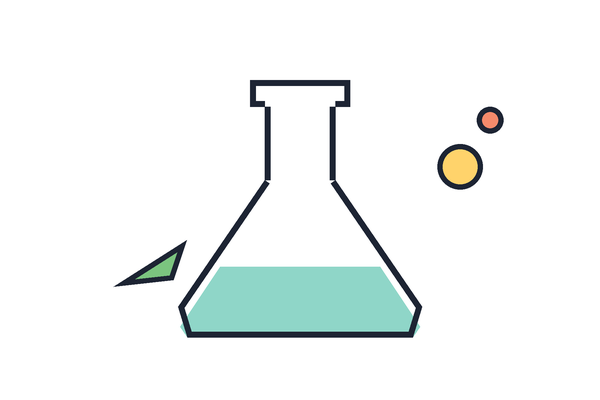
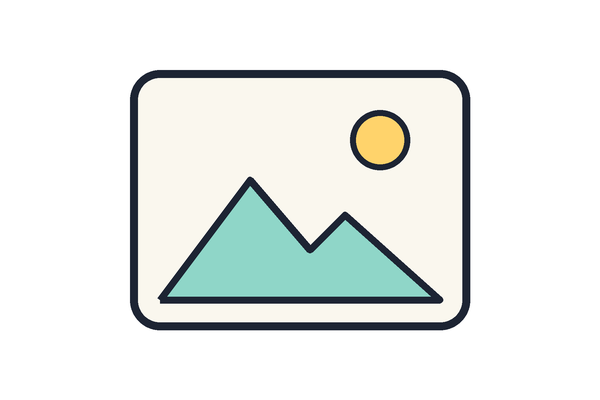
The design picker shows a post's own illustrations (by the worker's keys), not a fixed flask; a plain picture frame stands in for a slide with none
Claude-Session: https://claude.ai/code/session_01TZDmbX4uagkh5jCSUQcZv4

Changed region(s): [[0.18, 0.15, 0.84, 0.87]]

diff --git a/web/src/lib/slideArt.js b/web/src/lib/slideArt.js
@@ -1,0 +1,109 @@
+/* A post's OWN illustrations in the design picker (Wan, 23 Nov 2026: "I want illustration based on content like this, not fix conical
+   flask"). The worker draws one picture per slide from its words (backend/semasa/illustrated.py) and keeps every one on the slide job:
+   `meta.art[key] = {url, ...}`, where key = sha1("<STYLE_VERSION>|[cut|]<the slide's words>")[:16]. The picker asks for the same keys, so
+   a slide whose words are unchanged shows ITS drawing in every look: the whole drawn page for Diari, a transparent cut-out for the
+   others. A slide with no drawing yet shows a plain picture-frame stand-in, never a drawing of something it is not about. */
+
+export const STYLE_VERSION = 2;                      // illustrated.STYLE_VERSION: bump both together (web/slideArt.test.mjs reads the file)
+
+/** The words a drawing depends on, joined as illustrated.key_of joins them. */
+export const wordsOf = (s) => [s?.title, s?.lead, ...(Array.isArray(s?.points) ? s.points : []), s?.note].map((x) => String(x || "")).join("\n");
+
+/** illustrated.key_of(item, cut): the first 16 hex of sha1("2|cut|<words>"). */
+export async function artKey(slide, cut = false) {
+  const data = new TextEncoder().encode(`${STYLE_VERSION}|${cut ? "cut|" : ""}${wordsOf(slide)}`);
+  const hex = [...new Uint8Array(await globalThis.crypto.subtle.digest("SHA-1", data))].map((b) => b.toString(16).padStart(2, "0")).join("");
+  return hex.slice(0, 16);
+}
+
+/** key → address, over every slide job of the post (a later job wins). Jobs come newest first, so they are read oldest first. */
+export function artIndex(jobs) {
+  const idx = new Map();
+  for (const j of [...(jobs || [])].reverse()) {
+    const art = j?.meta?.art;
+    if (!art || typeof art !== "object") continue;
+    for (const [k, v] of Object.entries(art)) if (v && typeof v.url === "string" && v.url) idx.set(k, v.url);
+  }
+  return idx;
+}
+
+/** {cut, page} addresses for each slide ("" when the worker has not drawn that one). */
+export async function artFor(slides, jobs) {
+  const idx = artIndex(jobs);
+  if (!idx.size) return slides.map(() => ({ cut: "", page: "" }));
+  return Promise.all(slides.map(async (s) => ({ cut: idx.get(await artKey(s, true)) || "", page: idx.get(await artKey(s, false)) || "" })));
+}
+
+// ---- turning a drawing on a white page into a cut-out (the browser twin of illustrated.cutout) ----------------------------------
+
+const PAGE_WHITE = 232;                               // illustrated.CUT_WHITE: a pixel this light on every channel is page, not ink
+/** In place: the page round the drawing (white reached from the edges) becomes transparent, then a white sticker border of `r` px
+    is grown round what is left. `px` is RGBA, row by row. Returns false when no page was found (the picture fills its card). */
+export function cutPixels(px, w, h, r = Math.max(6, Math.round(w * 0.012))) {
+  const page = new Uint8Array(w * h), stack = [];
+  const white = (i) => px[i * 4] >= PAGE_WHITE && px[i * 4 + 1] >= PAGE_WHITE && px[i * 4 + 2] >= PAGE_WHITE && px[i * 4 + 3] > 0;
+  const seed = (i) => { if (!page[i] && white(i)) { page[i] = 1; stack.push(i); } };
+  for (let x = 0; x < w; x++) { seed(x); seed((h - 1) * w + x); }
+  for (let y = 0; y < h; y++) { seed(y * w); seed(y * w + w - 1); }
+  if (!stack.length) return false;
+  while (stack.length) {
+    const i = stack.pop(), x = i % w, y = (i - x) / w;
+    if (x > 0) seed(i - 1);
+    if (x < w - 1) seed(i + 1);
+    if (y > 0) seed(i - w);
+    if (y < h - 1) seed(i + w);
+  }
+  // the drawing = everything that is not page; its border = the drawing grown by r (a box, two passes)
+  const solid = new Uint8Array(w * h);
+  for (let i = 0; i < w * h; i++) solid[i] = page[i] ? 0 : 1;
+  const grow = (src, along, across, len, n) => {
+    const out = new Uint8Array(w * h);
+    for (let a = 0; a < across; a++) {
+      let count = 0;
+      const at = (t) => (along === "x" ? a * w + t : t * w + a);
+      for (let t = 0; t < Math.min(r, len); t++) count += src[at(t)];
+      for (let t = 0; t < len; t++) {
+        if (t + r < len) count += src[at(t + r)];
+        if (t - r - 1 >= 0) count -= src[at(t - r - 1)];
+        out[at(t)] = count > 0 ? 1 : 0;
+      }
+    }
+    return out;
+  };
+  const border = grow(grow(solid, "x", h, w), "y", w, h);
+  for (let i = 0; i < w * h; i++) {
+    if (solid[i]) continue;
+    if (border[i]) { px[i * 4] = px[i * 4 + 1] = px[i * 4 + 2] = 255; px[i * 4 + 3] = 255; } else px[i * 4 + 3] = 0;
+  }
+  return true;
+}
+
+const loadImage = (src) => new Promise((res) => { const i = new Image(); i.onload = () => res(i); i.onerror = () => res(null); i.src = src; });
+/** An address as a blob address of this page (the card canvas must not be tainted by a picture from another origin, and a short
+    string keeps the picker's render keys small), or "" when it cannot be read. */
+export async function dataUrlOf(url) {
+  try {
+    const r = await fetch(url, { mode: "cors" });
+    return r.ok ? URL.createObjectURL(await r.blob()) : "";
+  } catch (e) { return ""; }
+}
+const toBlobUrl = (canvas, type, q) => new Promise((res) => canvas.toBlob((b) => res(b ? URL.createObjectURL(b) : ""), type, q));
+/** A drawing on a white page → a PNG blob address with the page transparent and a white sticker border; the input when no page is found. */
+export async function cutOutUrl(src) {
+  const im = await loadImage(src);
+  if (!im) return "";
+  const c = document.createElement("canvas"); c.width = im.naturalWidth; c.height = im.naturalHeight;
+  const ctx = c.getContext("2d"); ctx.drawImage(im, 0, 0);
+  const d = ctx.getImageData(0, 0, c.width, c.height);
+  if (!cutPixels(d.data, c.width, c.height)) return src;
+  ctx.putImageData(d, 0, 0);
+  return toBlobUrl(c, "image/png");
+}
+/** A cut-out laid on a white page (Diari draws its picture as a whole page): a JPEG blob address. */
+export async function onPageUrl(src) {
+  const im = await loadImage(src);
+  if (!im) return "";
+  const c = document.createElement("canvas"); c.width = im.naturalWidth; c.height = im.naturalHeight;
+  const ctx = c.getContext("2d"); ctx.fillStyle = "#fff"; ctx.fillRect(0, 0, c.width, c.height); ctx.drawImage(im, 0, 0);
+  return toBlobUrl(c, "image/jpeg", 0.92);
+}

diff --git a/web/src/components/LookPicker.jsx b/web/src/components/LookPicker.jsx
@@ -6,6 +6,7 @@ import { resolveLook, useDesigns } from "../lib/designs";
 import { hide, offered, restore } from "../lib/lookChoice";
 import { THREADS, THREADS_LOOK, isThreads, threadsProblems, threadsSample } from "../lib/threadsSlides";
 import { useLang } from "../lib/i18n";
+import useSlideArt from "../lib/useSlideArt";
 import ImageLightbox, { useLightbox } from "./ImageLightbox";
 import ThreadsStrip, { ThreadsPage } from "./ThreadsPreview";
 
@@ -94,12 +95,12 @@ function useClosing(enabled, size) {
   return pic;
 }
 
-/* A stand-in cut-out drawing (public/cards/sample-art.png: a flask, a leaf, two dots, transparent round a white sticker border) so every tile and the preview show where
-   the illustration goes (Wan, 23 Nov 2026: "kenapa poster style design masih lama ... tiada illustration"). The real drawing is made by the
-   worker for each slide when the post is drawn; this one only ever appears in the picker and is never saved. */
+/* A stand-in cut-out (public/cards/sample-art.png: a plain picture frame with a sun and two hills, transparent round a white sticker border)
+   so a tile shows where the illustration goes when the slide has no drawing yet (Wan, 23 Nov 2026: "tiada illustration", then "illustration
+   based on content, not fix conical flask"): a slide the worker HAS drawn shows its own drawing instead (useSlideArt). Never saved. */
 const SAMPLE_ART = `${BASE}sample-art.png`;
 const SAMPLE_PAGE = `${BASE}sample-art-page.png`;       // Diari's picture is the whole drawn page (opaque), the other looks' is a cut-out
-const asPage = (list) => list.map((s) => (s && s.art_url === SAMPLE_ART ? { ...s, art_url: SAMPLE_PAGE } : s));
+const asPage = (list) => list.map((s) => (s && s.art_page ? { ...s, art_url: s.art_page } : s && s.art_url === SAMPLE_ART ? { ...s, art_url: SAMPLE_PAGE } : s));
 const withSampleArt = (list) => list.map((s) => (s && !s.art_url && !s.art_skip ? { ...s, art_url: SAMPLE_ART } : s));
 
 /* No words yet (a post with no slides written): the designs are shown on sample words rather than as blank tiles. */
@@ -143,12 +144,13 @@ function DesignTile({ d, opts, cover, ratio, on, onPick, onRemove, disabled, def
 
 export default function LookPicker({ value, onChange, slides: given, sample: givenSample = false, stream = "regulab", eyebrow = "",
   citation = "", bgUrl = "", bgChosen = false, size = null, full = true, onBlocked, disabled = false, mascots = [],
-  fit = false, onFit = null, threads = false, onDropSlide = null }) {
+  fit = false, onFit = null, threads = false, onDropSlide = null, artJobs = null }) {
   const { t, lang } = useLang();
   const { designs, defaultId, hiddenLooks, setHiddenLooks, saveDesigns, setDefault } = useDesigns();
   const chosen = resolveLook(value, designs);                    // "d:<id>" is one of My designs: its family, colours and layouts
   const sample = givenSample || !given.length;
-  const slides = withSampleArt(given.length ? given : sampleWords(stream));
+  const words = useMemo(() => (given.length ? given : sampleWords(stream)), [given, stream]);
+  const slides = withSampleArt(useSlideArt(words, artJobs));
   const [W, H] = sizeOf(stream, size);
   const ratio = `${W} / ${H}`;
   const opts = { stream, eyebrow, citation, bg: bgUrl || "", size: Array.isArray(size) ? size : undefined,

diff --git a/web/src/lib/useSlideArt.js b/web/src/lib/useSlideArt.js
@@ -1,0 +1,35 @@
+import { useEffect, useMemo, useState } from "react";
+import { artFor, artIndex, cutOutUrl, dataUrlOf, onPageUrl } from "./slideArt";
+
+const CACHE = new Map();                                    // address → {cut, page} data addresses, kept for the session
+
+/** The slides with their own drawings from the post's slide jobs: `art_url` (the cut-out) and `art_page` (the whole page, for Diari).
+    A slide without a drawing is returned as it was. Nothing is saved; this is only for the pictures in the picker. */
+export default function useSlideArt(slides, jobs) {
+  const [got, setGot] = useState({});                       // slide index → {cut, page}
+  const jobKey = useMemo(() => [...artIndex(jobs).entries()].map(([k, u]) => `${k}=${u}`).join("|"), [jobs]);
+  const key = JSON.stringify([slides.map((s) => [s?.title, s?.lead, s?.points, s?.note]), jobKey]);
+  useEffect(() => {
+    let live = true;
+    if (!jobKey) { setGot({}); return undefined; }
+    (async () => {
+      const urls = await artFor(slides, jobs);
+      const out = {};
+      for (let i = 0; i < urls.length; i++) {
+        const { cut, page } = urls[i], from = cut || page;
+        if (!from) continue;
+        if (!CACHE.has(from + "|" + cut + "|" + page)) {
+          const data = await dataUrlOf(from);
+          if (!data) continue;
+          const pair = cut ? { cut: data, page: page ? (await dataUrlOf(page)) || (await onPageUrl(data)) : await onPageUrl(data) }
+            : { cut: await cutOutUrl(data), page: data };
+          CACHE.set(from + "|" + cut + "|" + page, pair);
+        }
+        out[i] = CACHE.get(from + "|" + cut + "|" + page);
+      }
+      if (live) setGot(out);
+    })();
+    return () => { live = false; };
+  }, [key]); // eslint-disable-line react-hooks/exhaustive-deps
+  return useMemo(() => slides.map((s, i) => (got[i] ? { ...s, art_url: got[i].cut, art_page: got[i].page } : s)), [slides, got]);
+}

diff --git a/web/src/components/SlidesEditor.jsx b/web/src/components/SlidesEditor.jsx
@@ -170,7 +170,7 @@ export default function SlidesEditor({ post, rows, setRows, locked, jobs, attach
 
       {!locked && (
         <div className="mt-3 rounded-tile bg-surface-2/40 p-2.5">
-          <LookPicker value={look} onChange={setLook} slides={previewSlides} stream={post.stream}
+          <LookPicker value={look} onChange={setLook} slides={previewSlides} stream={post.stream} artJobs={jobs}
             eyebrow={preview.eyebrow} citation={preview.citation} bgUrl={preview.bgUrl} bgChosen={bg !== "none"}
             mascots={MASCOTS} threads onBlocked={setBlocked} fit={fit} onFit={setFit}
             onDropSlide={(i) => { const live = rows.map((r, j) => (normaliseSlides(fromRows([r])).length ? j : -1)).filter((j) => j >= 0);
